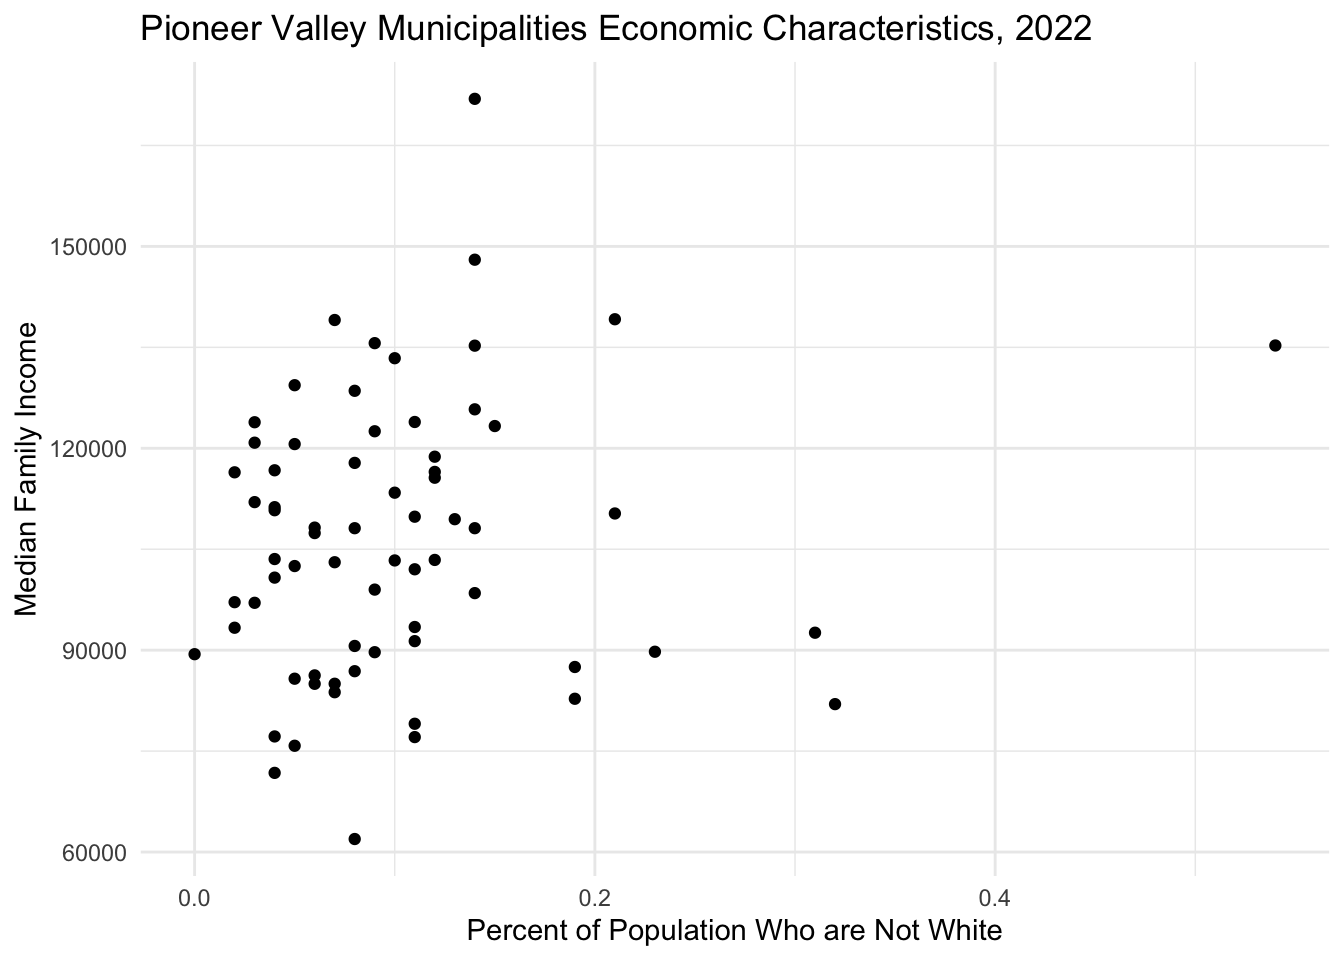
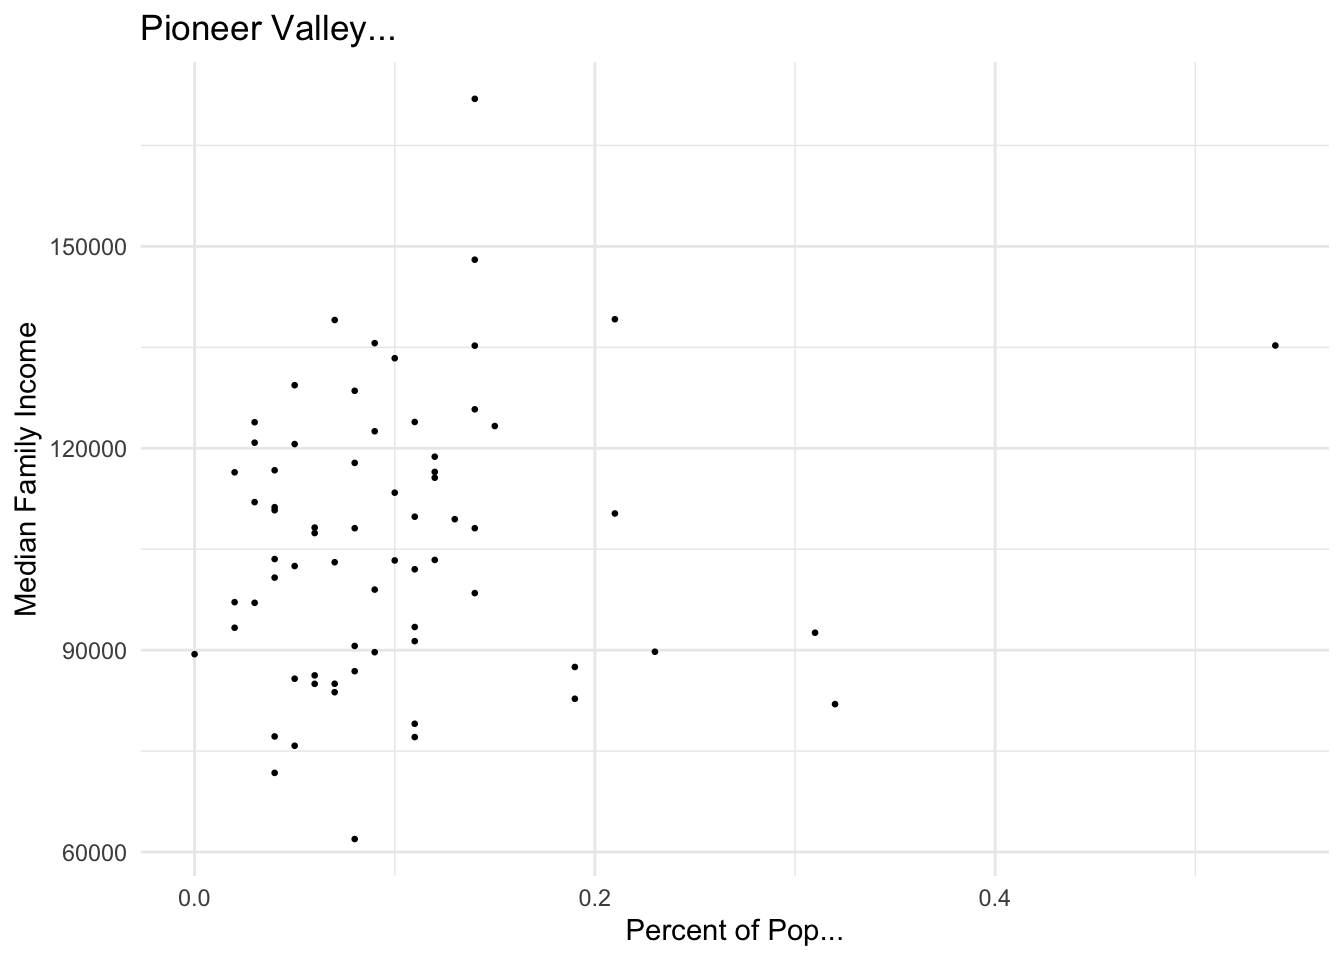
fixed schedule

diff --git a/docs/schedule.html b/docs/schedule.html
@@ -543,7 +543,7 @@ Calendar View for Major Assignments
 <ul class="nav nav-tabs" role="tablist"><li class="nav-item" role="presentation"><a class="nav-link active" id="tabset-9-1-tab" data-bs-toggle="tab" data-bs-target="#tabset-9-1" role="tab" aria-controls="tabset-9-1" aria-selected="true">Due Today</a></li><li class="nav-item" role="presentation"><a class="nav-link" id="tabset-9-2-tab" data-bs-toggle="tab" data-bs-target="#tabset-9-2" role="tab" aria-controls="tabset-9-2" aria-selected="false">Further Resources</a></li></ul>
 <div class="tab-content">
 <div id="tabset-9-1" class="tab-pane active" role="tabpanel" aria-labelledby="tabset-9-1-tab">
-<p><svg aria-hidden="true" role="img" viewbox="0 0 448 512" style="height:1em;width:0.88em;vertical-align:-0.125em;margin-left:auto;margin-right:auto;font-size:inherit;fill:currentColor;overflow:visible;position:relative;"><path d="M96 0C43 0 0 43 0 96V416c0 53 43 96 96 96H384h32c17.7 0 32-14.3 32-32s-14.3-32-32-32V384c17.7 0 32-14.3 32-32V32c0-17.7-14.3-32-32-32H384 96zm0 384H352v64H96c-17.7 0-32-14.3-32-32s14.3-32 32-32zm32-240c0-8.8 7.2-16 16-16H336c8.8 0 16 7.2 16 16s-7.2 16-16 16H144c-8.8 0-16-7.2-16-16zm16 48H336c8.8 0 16 7.2 16 16s-7.2 16-16 16H144c-8.8 0-16-7.2-16-16s7.2-16 16-16z"></path></svg> 2. Data Visualization , Ismay, Chester and Albert Y. Kim (2021). <em>Modern Dive: Statistical Inference via Data Science</em>. CRC Press. (Visited on Jan.&nbsp;14, 2022). <a href="https://app.perusall.com/courses/sds192-02-introduction-to-data-science-143912191/_/assignments">Read in Perusall</a></p>
+
 </div>
 <div id="tabset-9-2" class="tab-pane" role="tabpanel" aria-labelledby="tabset-9-2-tab">
 <p><svg aria-hidden="true" role="img" viewbox="0 0 640 512" style="height:1em;width:1.25em;vertical-align:-0.125em;margin-left:auto;margin-right:auto;font-size:inherit;fill:currentColor;overflow:visible;position:relative;"><path d="M579.8 267.7c56.5-56.5 56.5-148 0-204.5c-50-50-128.8-56.5-186.3-15.4l-1.6 1.1c-14.4 10.3-17.7 30.3-7.4 44.6s30.3 17.7 44.6 7.4l1.6-1.1c32.1-22.9 76-19.3 103.8 8.6c31.5 31.5 31.5 82.5 0 114L422.3 334.8c-31.5 31.5-82.5 31.5-114 0c-27.9-27.9-31.5-71.8-8.6-103.8l1.1-1.6c10.3-14.4 6.9-34.4-7.4-44.6s-34.4-6.9-44.6 7.4l-1.1 1.6C206.5 251.2 213 330 263 380c56.5 56.5 148 56.5 204.5 0L579.8 267.7zM60.2 244.3c-56.5 56.5-56.5 148 0 204.5c50 50 128.8 56.5 186.3 15.4l1.6-1.1c14.4-10.3 17.7-30.3 7.4-44.6s-30.3-17.7-44.6-7.4l-1.6 1.1c-32.1 22.9-76 19.3-103.8-8.6C74 372 74 321 105.5 289.5L217.7 177.2c31.5-31.5 82.5-31.5 114 0c27.9 27.9 31.5 71.8 8.6 103.9l-1.1 1.6c-10.3 14.4-6.9 34.4 7.4 44.6s34.4 6.9 44.6-7.4l1.1-1.6C433.5 260.8 427 182 377 132c-56.5-56.5-148-56.5-204.5 0L60.2 244.3z"></path></svg> <a href="https://rstudio.github.io/cheatsheets/data-visualization.pdf">ggplot2 cheatsheet</a><br>
@@ -561,6 +561,7 @@ Calendar View for Major Assignments
 <ul class="nav nav-tabs" role="tablist"><li class="nav-item" role="presentation"><a class="nav-link active" id="tabset-10-1-tab" data-bs-toggle="tab" data-bs-target="#tabset-10-1" role="tab" aria-controls="tabset-10-1" aria-selected="true">Due Today</a></li><li class="nav-item" role="presentation"><a class="nav-link" id="tabset-10-2-tab" data-bs-toggle="tab" data-bs-target="#tabset-10-2" role="tab" aria-controls="tabset-10-2" aria-selected="false">Further Resources</a></li></ul>
 <div class="tab-content">
 <div id="tabset-10-1" class="tab-pane active" role="tabpanel" aria-labelledby="tabset-10-1-tab">
+<p><svg aria-hidden="true" role="img" viewbox="0 0 448 512" style="height:1em;width:0.88em;vertical-align:-0.125em;margin-left:auto;margin-right:auto;font-size:inherit;fill:currentColor;overflow:visible;position:relative;"><path d="M96 0C43 0 0 43 0 96V416c0 53 43 96 96 96H384h32c17.7 0 32-14.3 32-32s-14.3-32-32-32V384c17.7 0 32-14.3 32-32V32c0-17.7-14.3-32-32-32H384 96zm0 384H352v64H96c-17.7 0-32-14.3-32-32s14.3-32 32-32zm32-240c0-8.8 7.2-16 16-16H336c8.8 0 16 7.2 16 16s-7.2 16-16 16H144c-8.8 0-16-7.2-16-16zm16 48H336c8.8 0 16 7.2 16 16s-7.2 16-16 16H144c-8.8 0-16-7.2-16-16s7.2-16 16-16z"></path></svg> 2. Data Visualization , Ismay, Chester and Albert Y. Kim (2021). <em>Modern Dive: Statistical Inference via Data Science</em>. CRC Press. (Visited on Jan.&nbsp;14, 2022). <a href="https://app.perusall.com/courses/sds192-02-introduction-to-data-science-143912191/_/assignments">Read in Perusall</a></p>
 <p><svg aria-hidden="true" role="img" viewbox="0 0 384 512" style="height:1em;width:0.75em;vertical-align:-0.125em;margin-left:auto;margin-right:auto;font-size:inherit;fill:currentColor;overflow:visible;position:relative;"><path d="M64 464c-8.8 0-16-7.2-16-16V64c0-8.8 7.2-16 16-16H224v80c0 17.7 14.3 32 32 32h80V448c0 8.8-7.2 16-16 16H64zM64 0C28.7 0 0 28.7 0 64V448c0 35.3 28.7 64 64 64H320c35.3 0 64-28.7 64-64V154.5c0-17-6.7-33.3-18.7-45.3L274.7 18.7C262.7 6.7 246.5 0 229.5 0H64zm56 256c-13.3 0-24 10.7-24 24s10.7 24 24 24H264c13.3 0 24-10.7 24-24s-10.7-24-24-24H120zm0 96c-13.3 0-24 10.7-24 24s10.7 24 24 24H264c13.3 0 24-10.7 24-24s-10.7-24-24-24H120z"></path></svg> <a href="labs/lab2.html">Lab 2</a> Due</p>
 </div>
 <div id="tabset-10-2" class="tab-pane" role="tabpanel" aria-labelledby="tabset-10-2-tab">

diff --git a/docs/exercises/ggplot.html b/docs/exercises/ggplot.html
@@ -202,6 +202,19 @@ pre > code.sourceCode > span > a:first-child::before { text-decoration: underlin
 <div class="cell">
 <div class="sourceCode cell-code" id="cb3"><pre class="sourceCode r code-with-copy"><code class="sourceCode r"><span id="cb3-1"><a href="#cb3-1" aria-hidden="true" tabindex="-1"></a><span class="co"># Write code here</span></span></code><button title="Copy to Clipboard" class="code-copy-button"><i class="bi"></i></button></pre></div>
 </div>
+<div class="cell" data-document="solutions">
+<div class="cell-output cell-output-stderr">
+<pre><code>Warning: Removed 1 row containing missing values or values outside the scale range
+(`geom_point()`).</code></pre>
+</div>
+<div class="cell-output-display">
+<div>
+<figure class="figure">
+<p><img src="ggplot_files/figure-html/unnamed-chunk-4-1.png" class="img-fluid figure-img" width="672"></p>
+</figure>
+</div>
+</div>
+</div>
 </section>
 <section id="question-1" class="level6">
 <h6 class="anchored" data-anchor-id="question-1">Question</h6>
@@ -210,7 +223,16 @@ pre > code.sourceCode > span > a:first-child::before { text-decoration: underlin
 </div>
 <p><img src="img/ggplot_img1.png" class="img-fluid"></p>
 <div class="cell">
-<div class="sourceCode cell-code" id="cb4"><pre class="sourceCode r code-with-copy"><code class="sourceCode r"><span id="cb4-1"><a href="#cb4-1" aria-hidden="true" tabindex="-1"></a><span class="co">#Code here.</span></span></code><button title="Copy to Clipboard" class="code-copy-button"><i class="bi"></i></button></pre></div>
+<div class="sourceCode cell-code" id="cb5"><pre class="sourceCode r code-with-copy"><code class="sourceCode r"><span id="cb5-1"><a href="#cb5-1" aria-hidden="true" tabindex="-1"></a><span class="co">#Code here.</span></span></code><button title="Copy to Clipboard" class="code-copy-button"><i class="bi"></i></button></pre></div>
+</div>
+<div class="cell" data-document="solutions">
+<div class="cell-output-display">
+<div>
+<figure class="figure">
+<p><img src="ggplot_files/figure-html/unnamed-chunk-6-1.png" class="img-fluid figure-img" width="672"></p>
+</figure>
+</div>
+</div>
 </div>
 </section>
 <section id="question-2" class="level6">
@@ -220,7 +242,16 @@ pre > code.sourceCode > span > a:first-child::before { text-decoration: underlin
 </div>
 <p><img src="img/ggplot_img2.png" class="img-fluid"></p>
 <div class="cell">
-<div class="sourceCode cell-code" id="cb5"><pre class="sourceCode r code-with-copy"><code class="sourceCode r"><span id="cb5-1"><a href="#cb5-1" aria-hidden="true" tabindex="-1"></a><span class="co">#Code here.</span></span></code><button title="Copy to Clipboard" class="code-copy-button"><i class="bi"></i></button></pre></div>
+<div class="sourceCode cell-code" id="cb6"><pre class="sourceCode r code-with-copy"><code class="sourceCode r"><span id="cb6-1"><a href="#cb6-1" aria-hidden="true" tabindex="-1"></a><span class="co">#Code here.</span></span></code><button title="Copy to Clipboard" class="code-copy-button"><i class="bi"></i></button></pre></div>
+</div>
+<div class="cell" data-document="solutions">
+<div class="cell-output-display">
+<div>
+<figure class="figure">
+<p><img src="ggplot_files/figure-html/unnamed-chunk-8-1.png" class="img-fluid figure-img" width="672"></p>
+</figure>
+</div>
+</div>
 </div>
 </section>
 <section id="question-3" class="level6">
@@ -230,7 +261,16 @@ pre > code.sourceCode > span > a:first-child::before { text-decoration: underlin
 </div>
 <p><img src="img/ggplot_img3.png" class="img-fluid"></p>
 <div class="cell">
-<div class="sourceCode cell-code" id="cb6"><pre class="sourceCode r code-with-copy"><code class="sourceCode r"><span id="cb6-1"><a href="#cb6-1" aria-hidden="true" tabindex="-1"></a><span class="co">#Code here.</span></span></code><button title="Copy to Clipboard" class="code-copy-button"><i class="bi"></i></button></pre></div>
+<div class="sourceCode cell-code" id="cb7"><pre class="sourceCode r code-with-copy"><code class="sourceCode r"><span id="cb7-1"><a href="#cb7-1" aria-hidden="true" tabindex="-1"></a><span class="co">#Code here.</span></span></code><button title="Copy to Clipboard" class="code-copy-button"><i class="bi"></i></button></pre></div>
+</div>
+<div class="cell" data-document="solutions">
+<div class="cell-output-display">
+<div>
+<figure class="figure">
+<p><img src="ggplot_files/figure-html/unnamed-chunk-10-1.png" class="img-fluid figure-img" width="672"></p>
+</figure>
+</div>
+</div>
 </div>
 </section>
 <section id="question-4" class="level6">
